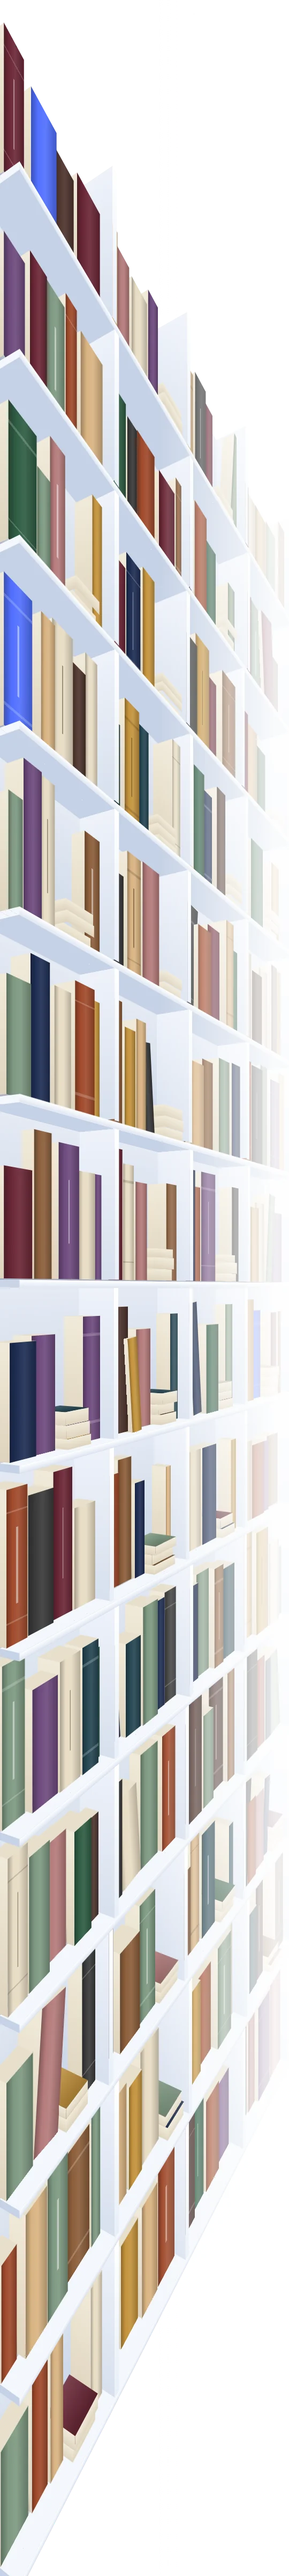
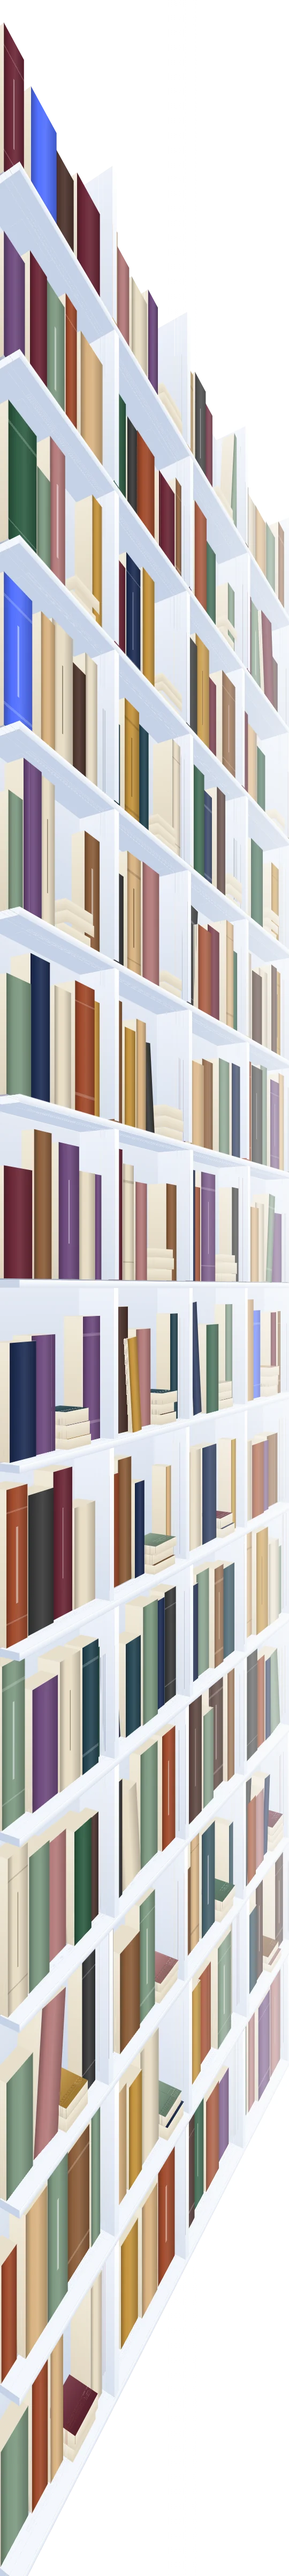
fix(hero): dissolve the shelf edges into the page instead of fading to a colour
The far end faded to opaque white and the bottom to solid --paper. Both are
lighter than the hero gradient behind them, so the baked image announced itself
as a rectangle. Now the fades are alpha, not paint: one mask layer across the
image for the far end, one down the wrapper for the top and bottom edges. One
layer each, so no mask-composite is involved. The hero's fade divs are gone,
they were the solid band.

The corridor also runs longer — seven bays instead of four — so the far end has
somewhere to recede to while it dissolves. That costs nothing now that the wall
is baked rather than live. The white haze in the scene drops to a hint of
distance light, since the mask does the disappearing.

The bake script hides the runtime masks before it captures, or they would be
baked in and then applied a second time at runtime. Its URL constant was also
shadowing the global URL, which broke the output path.

diff --git a/src/components/Hero.vue b/src/components/Hero.vue
@@ -2,7 +2,6 @@
   <section class="hero" id="top">
     <div class="hero__shelf hero__shelf--left">
       <Bookshelf side="left" />
-      <div class="hero__shelf-fade hero__shelf-fade--bottom" />
     </div>
 
     <div class="hero__center">
@@ -58,7 +57,6 @@
 
     <div class="hero__shelf hero__shelf--right">
       <Bookshelf side="right" />
-      <div class="hero__shelf-fade hero__shelf-fade--bottom" />
     </div>
   </section>
 </template>
@@ -94,21 +92,19 @@ const bumped = ref(false)
   text-align: center;
   padding: 140px 24px 32px;
 }
+/* The shelves fade out at the bottom by going transparent, not by painting a
+   band of --paper over them: a solid band reads as a seam against the page
+   gradient. One mask layer here, one across the image, so no compositing. */
 .hero__shelf {
   position: relative;
   height: 100%;
   min-height: 100vh;
   align-self: stretch;
   overflow: hidden;
-}
-.hero__shelf-fade {
-  position: absolute; left: 0; right: 0;
-  height: 120px;
-  pointer-events: none;
-}
-.hero__shelf-fade--bottom {
-  bottom: 0;
-  background: linear-gradient(to top, var(--paper) 0%, rgba(247,249,252,.7) 50%, transparent 100%);
+  -webkit-mask-image: linear-gradient(to top, rgba(0,0,0,0) 0%, #000 18%, #000 92%, rgba(0,0,0,0) 100%);
+  mask-image: linear-gradient(to top, rgba(0,0,0,0) 0%, #000 18%, #000 92%, rgba(0,0,0,0) 100%);
+  -webkit-mask-repeat: no-repeat;
+  mask-repeat: no-repeat;
 }
 
 .hero__eyebrow {

diff --git a/scripts/shelf-source/Bookshelf3D.vue b/scripts/shelf-source/Bookshelf3D.vue
@@ -92,7 +92,7 @@ const WALL_ANGLE = 60
 const PERSPECTIVE = 600
 const ORIGIN_X = 45 // % of the column width
 const BAY = 112 // wall-space px between dividers
-const BAYS = 4
+const BAYS = 7
 const DIVIDER = 6
 const WALL_LEN = BAYS * (BAY + DIVIDER)
 /** Cabinet depth in wall-space px. */
@@ -535,17 +535,18 @@ onBeforeUnmount(() => {
 /* Seen from below on the shelves above eye level. */
 .bk-plank__under { bottom: 0; background: #c6d2e6; }
 
-/* Light spilling in at the far end, which is also where the wall stops. */
+/* A hint of light down the corridor. The dissolve into the page is a mask on
+   the baked image, not a wash of white — white leaves a visible rectangle. */
 .bk__haze {
   position: absolute;
   inset: 0;
   pointer-events: none;
 }
 .bk--left .bk__haze {
-  background: linear-gradient(to right, rgba(255, 255, 255, 0) 55%, rgba(255, 255, 255, 0.9) 95%);
+  background: linear-gradient(to right, rgba(255, 255, 255, 0) 58%, rgba(255, 255, 255, 0.5) 100%);
 }
 .bk--right .bk__haze {
-  background: linear-gradient(to left, rgba(255, 255, 255, 0) 55%, rgba(255, 255, 255, 0.9) 95%);
+  background: linear-gradient(to left, rgba(255, 255, 255, 0) 58%, rgba(255, 255, 255, 0.5) 100%);
 }
 
 .bk-box { cursor: pointer; }

diff --git a/src/components/Bookshelf.vue b/src/components/Bookshelf.vue
@@ -58,5 +58,18 @@ onBeforeUnmount(() => {
   object-position: center center;
   user-select: none;
   pointer-events: none;
+  /* The far end dissolves into the page rather than fading to a colour — any
+     solid fade colour shows as a rectangle against the hero's gradient. One
+     mask layer per element, so no mask-composite is needed. */
+  -webkit-mask-repeat: no-repeat;
+  mask-repeat: no-repeat;
+}
+.bk--left {
+  -webkit-mask-image: linear-gradient(to right, #000 55%, rgba(0, 0, 0, 0) 99%);
+  mask-image: linear-gradient(to right, #000 55%, rgba(0, 0, 0, 0) 99%);
+}
+.bk--right {
+  -webkit-mask-image: linear-gradient(to left, #000 55%, rgba(0, 0, 0, 0) 99%);
+  mask-image: linear-gradient(to left, #000 55%, rgba(0, 0, 0, 0) 99%);
 }
 </style>
